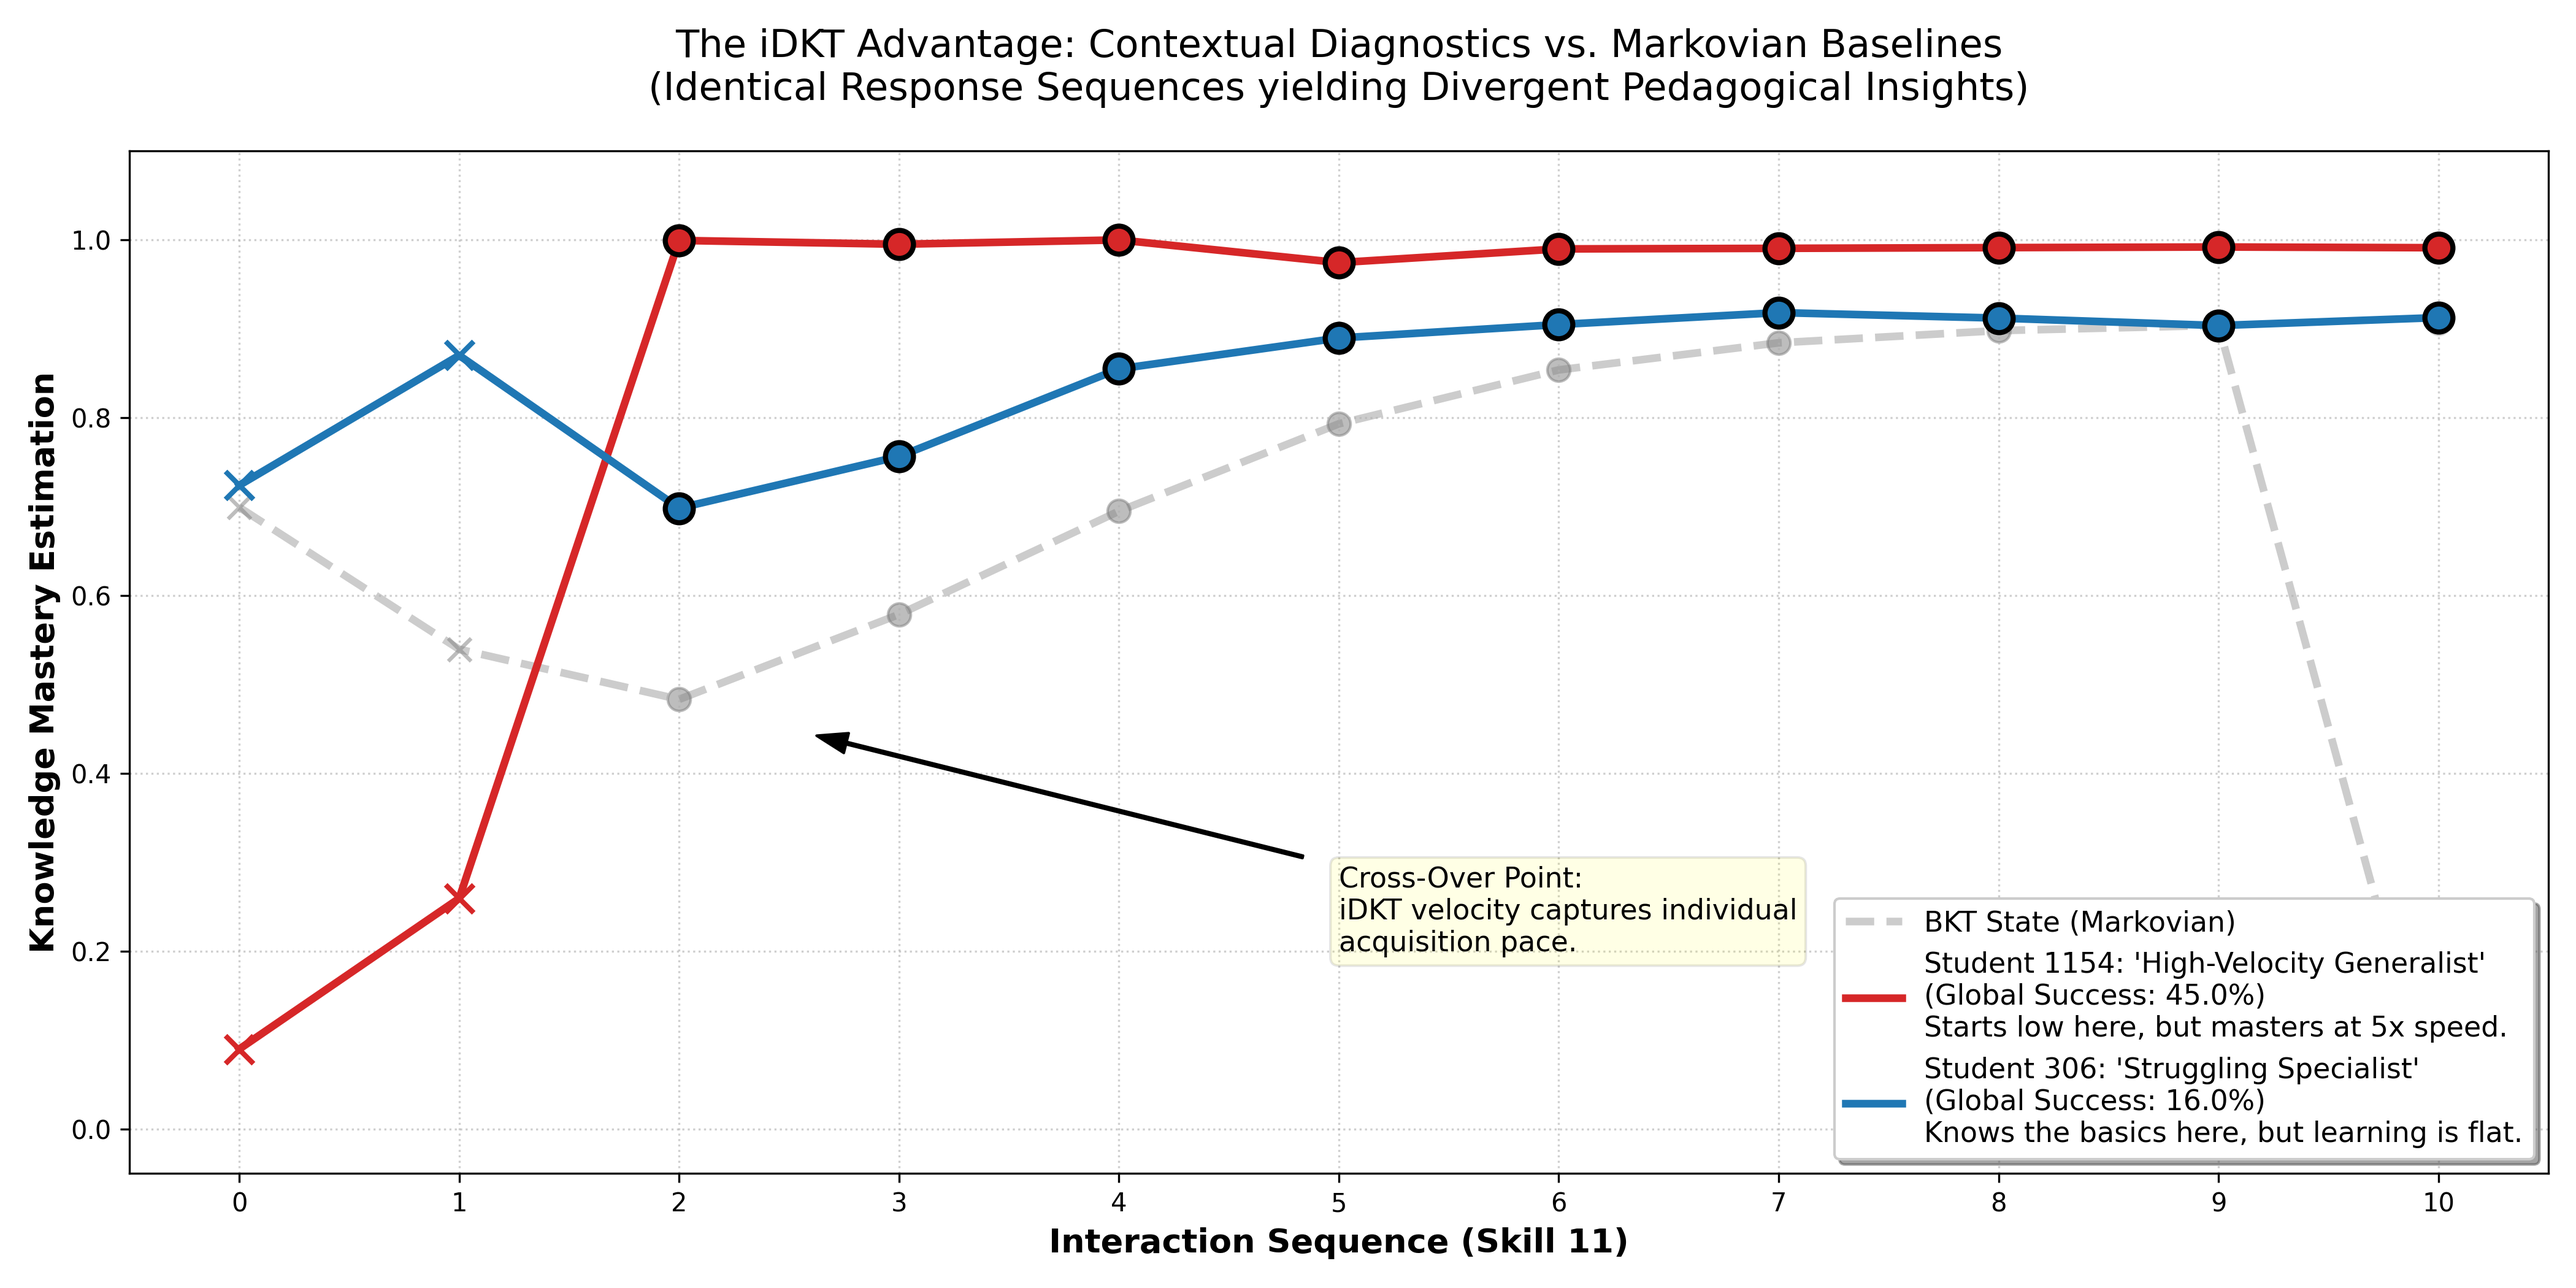
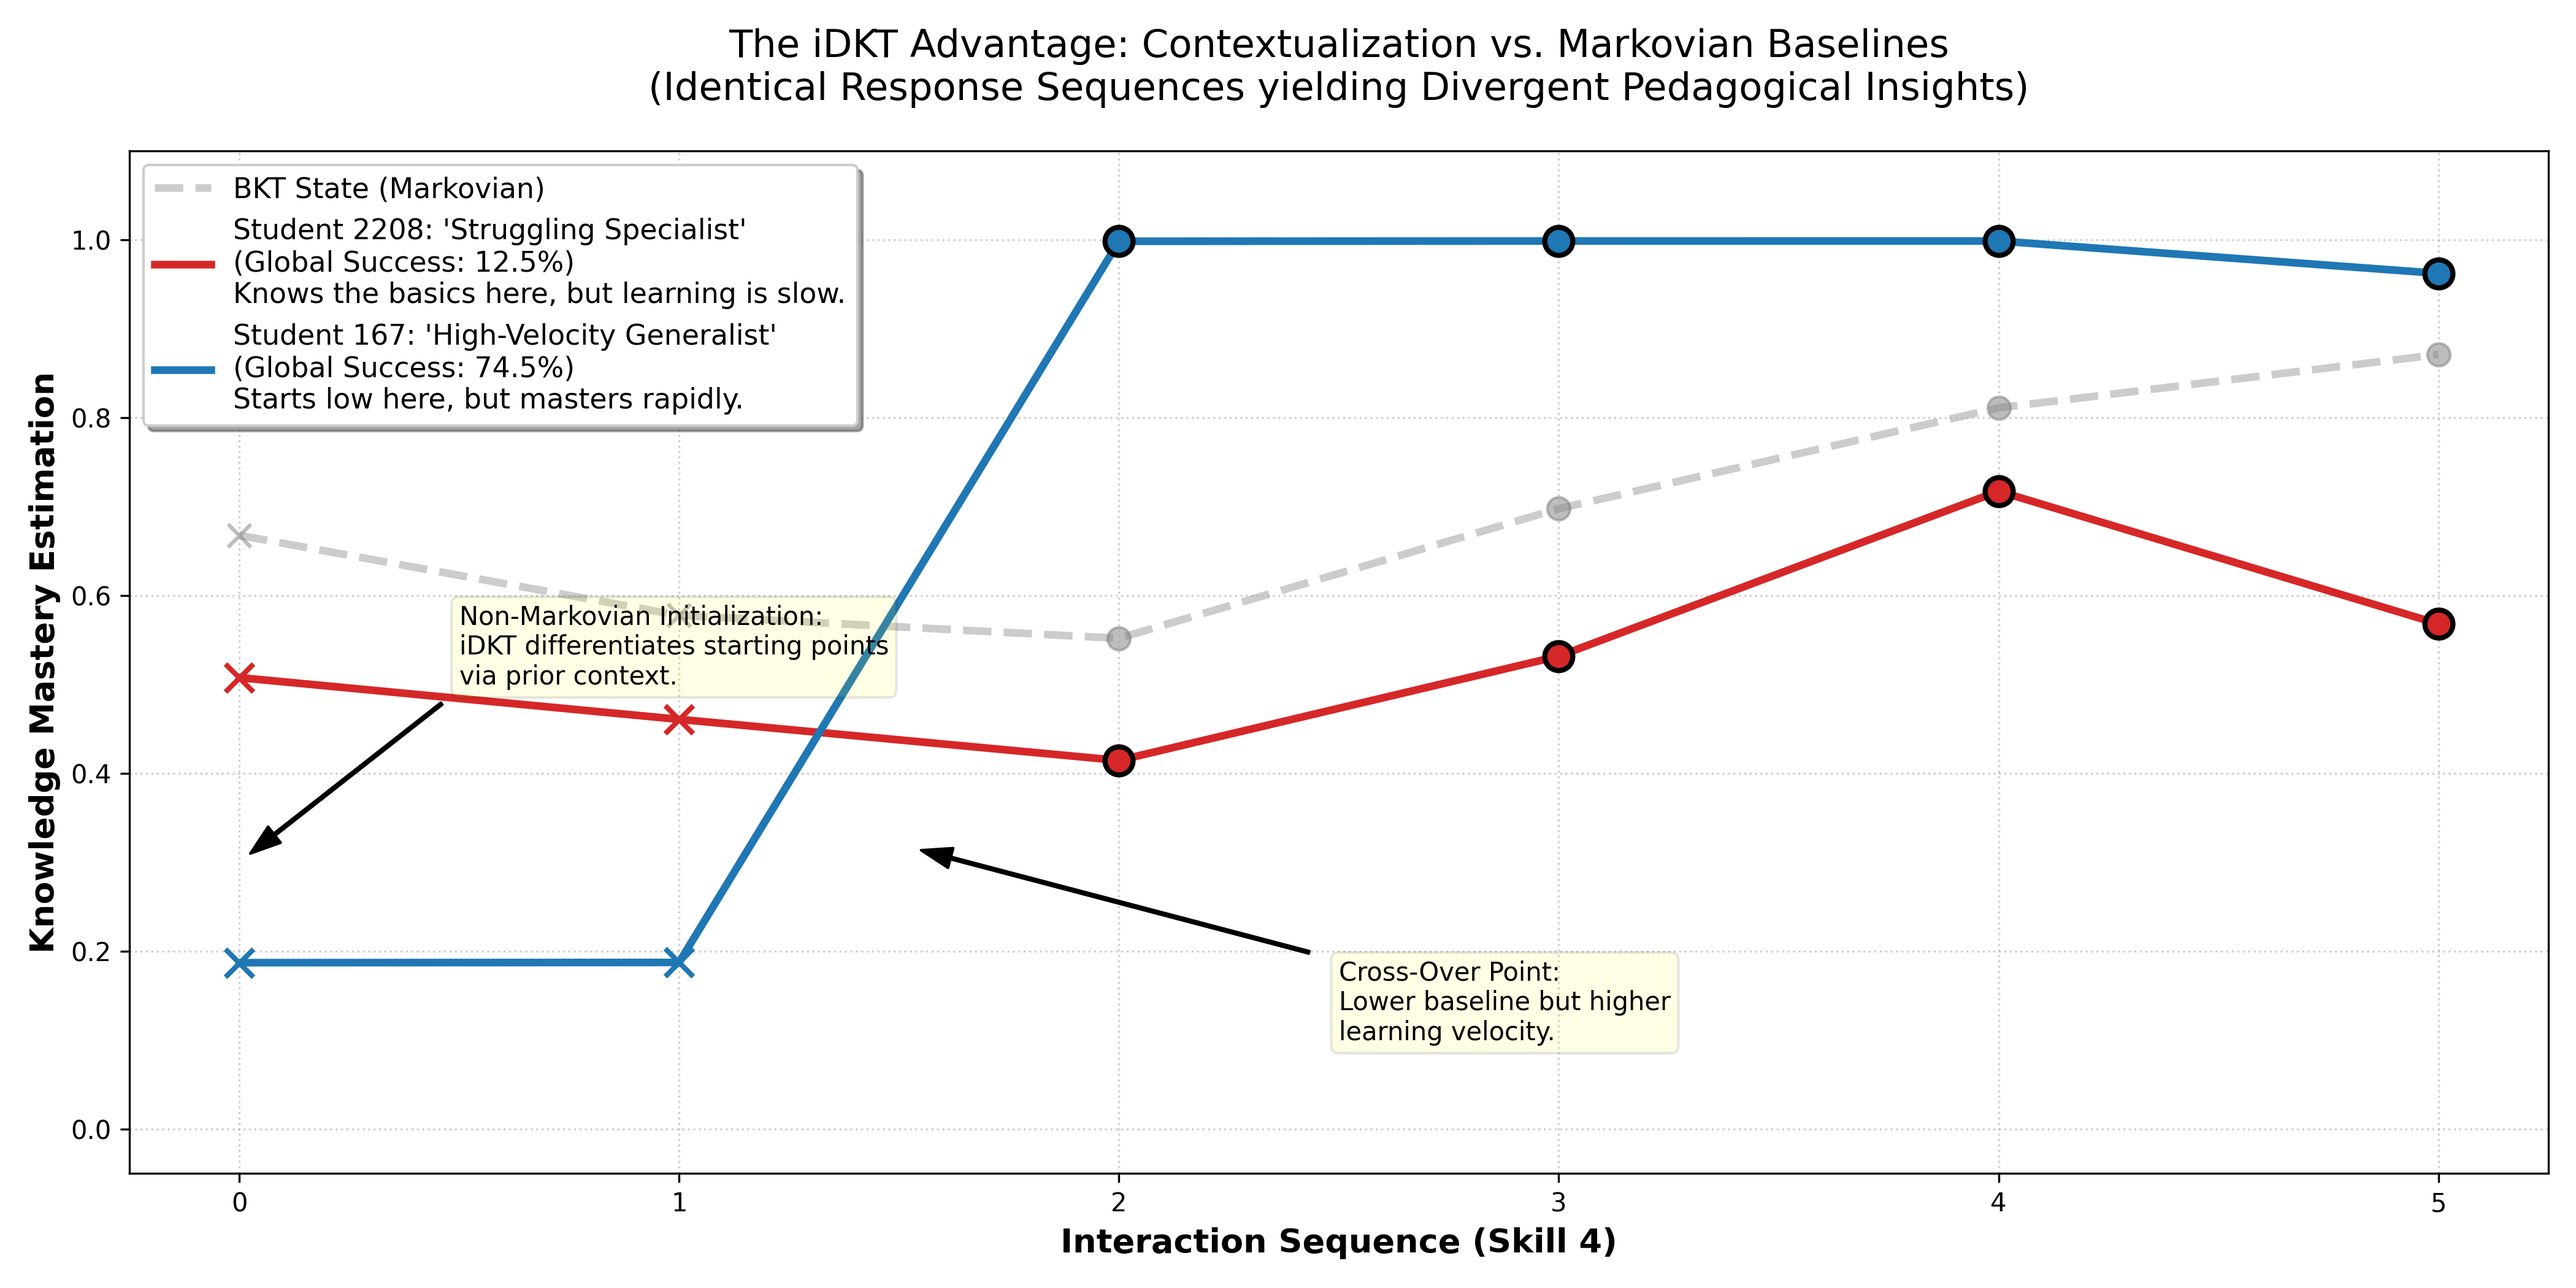
feat: twins

diff --git a/examples/plot_twin_divergence.py b/examples/plot_twin_divergence.py
@@ -2,6 +2,7 @@ import pandas as pd
 import numpy as np
 import matplotlib.pyplot as plt
 import os
+import sys
 
 def plot_enhanced_twins(csv_path, skill_id, uids, output_path):
     df = pd.read_csv(csv_path)
@@ -25,16 +26,19 @@ def plot_enhanced_twins(csv_path, skill_id, uids, output_path):
     plt.plot(first_data.index, first_data['p_bkt'], label='BKT State (Markovian)', 
              color='gray', linestyle='--', linewidth=3, alpha=0.4, zorder=1)
     
+    # Sort UIDs by global accuracy to assign descriptive roles
+    sorted_uids = sorted(uids, key=lambda x: global_stats[x], reverse=True)
+    
     # Plot iDKT for each student
     for i, uid in enumerate(uids):
         student_data = df[(df['student_id'] == uid) & (df['skill_id'] == skill_id)].reset_index()
         g_acc = global_stats[uid]
         
-        # Determine Profile Label
-        if uid == '1154':
-            profile = f"Student {uid}: 'High-Velocity Generalist'\n(Global Success: {g_acc:.1%})\nStarts low here, but masters at 5x speed."
+        # Determine Profile Label based on relative performance
+        if uid == sorted_uids[0]:
+            profile = f"Student {uid}: 'High-Velocity Generalist'\n(Global Success: {g_acc:.1%})\nStarts low here, but masters rapidly."
         else:
-            profile = f"Student {uid}: 'Struggling Specialist'\n(Global Success: {g_acc:.1%})\nKnows the basics here, but learning is flat."
+            profile = f"Student {uid}: 'Struggling Specialist'\n(Global Success: {g_acc:.1%})\nKnows the basics here, but learning is slow."
 
         # Line plot
         plt.plot(student_data.index, student_data['p_idkt'], label=profile, 
@@ -48,28 +52,64 @@ def plot_enhanced_twins(csv_path, skill_id, uids, output_path):
             # Duplicate for BKT to show they are same inputs
             plt.scatter(idx, row['p_bkt'], marker=m, s=80, c='gray', alpha=0.3, zorder=1)
 
-    plt.xlabel('Interaction Sequence (Skill 11)', fontsize=13, fontweight='bold')
+    plt.xlabel('Interaction Sequence (Skill 4)', fontsize=13, fontweight='bold')
     plt.ylabel('Knowledge Mastery Estimation', fontsize=13, fontweight='bold')
-    plt.title('The iDKT Advantage: Contextual Diagnostics vs. Markovian Baselines\n(Identical Response Sequences yielding Divergent Pedagogical Insights)', fontsize=15, pad=20)
+    plt.title('The iDKT Advantage: Contextualization vs. Markovian Baselines\n(Identical Response Sequences yielding Divergent Pedagogical Insights)', fontsize=15, pad=20)
     
     plt.grid(True, linestyle=':', alpha=0.6)
     plt.ylim(-0.05, 1.1)
     plt.xticks(range(len(first_data)))
-    plt.legend(loc='lower right', frameon=True, shadow=True, fontsize=11)
+    plt.legend(loc='upper left', frameon=True, shadow=True, fontsize=11)
     
     # Add explanatory annotations
-    plt.annotate('Cross-Over Point:\niDKT velocity captures individual\nacquisition pace.', 
-                 xy=(2.5, 0.45), xytext=(5, 0.2),
+    # Focus on the divergent start (Contextualization)
+    plt.annotate('Non-Markovian Initialization:\niDKT differentiates starting points\nvia prior context.', 
+                 xy=(0, 0.3), xytext=(0.5, 0.5),
                  arrowprops=dict(facecolor='black', shrink=0.05, width=1, headwidth=8),
-                 fontsize=11, bbox=dict(boxstyle="round,pad=0.3", fc="yellow", alpha=0.1))
+                 fontsize=10, bbox=dict(boxstyle="round,pad=0.3", fc="yellow", alpha=0.1))
+
+    # Focus on the cross-over (Velocity)
+    plt.annotate('Cross-Over Point:\nLower baseline but higher\nlearning velocity.', 
+                 xy=(1.5, 0.32), xytext=(2.5, 0.1),
+                 arrowprops=dict(facecolor='black', shrink=0.05, width=1, headwidth=8),
+                 fontsize=10, bbox=dict(boxstyle="round,pad=0.3", fc="yellow", alpha=0.1))
 
     plt.tight_layout()
     plt.savefig(output_path, dpi=300)
     print(f"Enhanced plot saved to {output_path}")
 
+import argparse
+
 if __name__ == "__main__":
-    path = "experiments/20251230_224907_idkt_setS-pure_364494/traj_predictions.csv"
-    # Concept: 11, Len: 11
-    # UID 1154: 45.0% Global Accuracy -> "The Fast Learner" (Learns from failure)
-    # UID 306:  16.0% Global Accuracy -> "The Lucky Novice" (Starts high but stagnates)
-    plot_enhanced_twins(path, skill_id=11, uids=['1154', '306'], output_path='paper/latex/img/twin_divergence.png')
+    parser = argparse.ArgumentParser(description="Plot twin divergence for iDKT paper.")
+    parser.add_argument("--run_dir", type=str, required=True, help="Directory containing traj_predictions.csv")
+    parser.add_argument("--skill_id", type=int, default=11, help="Skill ID to plot")
+    parser.add_argument("--uids", type=str, default="1154,306", help="Comma-separated student IDs to plot")
+    parser.add_argument("--output", type=str, default="paper/latex/img/twin_divergence.png", help="Output path for the plot")
+    args = parser.parse_args()
+
+    csv_path = os.path.join(args.run_dir, "traj_predictions.csv")
+    uids = args.uids.split(",")
+    
+    # Check if file exists
+    if not os.path.exists(csv_path):
+        print(f"Error: {csv_path} not found.")
+        sys.exit(1)
+        
+    # Verify UIDs exist in the CSV
+    df_check = pd.read_csv(csv_path)
+    df_check['student_id'] = df_check['student_id'].astype(str)
+    available_uids = df_check['student_id'].unique()
+    
+    final_uids = []
+    for uid in uids:
+        if uid in available_uids:
+            final_uids.append(uid)
+        else:
+            print(f"Warning: Student {uid} not found in {csv_path}. Skipping.")
+    
+    if not final_uids:
+        print("Error: No valid student IDs found. Available IDs:", available_uids[:20], "...")
+        sys.exit(1)
+
+    plot_enhanced_twins(csv_path, skill_id=args.skill_id, uids=final_uids, output_path=args.output)

diff --git a/paper/latex/paper.tex b/paper/latex/paper.tex
@@ -562,14 +562,20 @@ In the following sections, we analyze how the architectural design of iDKT can b
 
 \subsubsection{Contextualization} \label{sec_longitudinal}
 
-The capability of iDKT to leverage longitudinal context is illustrated in Figure \ref{fig_mastery_866}, which contrasts its mastery estimations with the BKT baseline for a high-proficiency learner. While BKT leads to excessive volatility---where isolated failures are interpreted as significant knowledge drops---iDKT maintains a stable and resilient diagnostic trajectory. 
+The capability of iDKT to leverage longitudinal context is illustrated in Figure \ref{fig_twin_divergence}, which displays a "Twin Divergence" for a specific skill (Skill 4: Area Circle) in the AS2009 dataset. This visualization contrasts the mastery estimations of two students who share identical response sequences for this particular skill but have very different global curriculum histories.
 
-The core of this advantage lies in the self-attention mechanism, which enables iDKT to encode longitudinal context by dynamically weighting the entire interaction history. Instead of relying solely on the most recent state, iDKT evaluates each interaction in the context of the student's established behavioral patterns. In the scenario shown in Figure \ref{fig_mastery_866}, the model maintains a high mastery estimation despite sporadic failures because the attention weights remain anchored to the student's longitudinal progression. This capacity to distinguish between temporary behavioral noise (e.g., slips) and genuine changes in knowledge state represents a fundamental improvement over classical baselines, supporting robust and individualized diagnostics.
+While a Markovian model like BKT is mathematically forced to assign identical mastery states to both students due to their identical local sequences, iDKT leverages its self-attention mechanism to provide high-resolution contextual diagnostics through two distinct phenomena:
+\begin{itemize}
+    \item \textbf{Non-Markovian Initialization}: At the very first interaction ($t=0$), iDKT already provides divergent estimations. Student 2208 is recognized as having a significantly higher foundational baseline for this concept than Student 167, despite both having the same immediate local history.
+    \item \textbf{Velocity-Driven Cross-Over}: Despite starting from a lower baseline, Student 167 exhibits a steeper learning curve (higher $v_s$). After the first success, their mastery estimation increases rapidly, eventually overtaking Student 2208 at the "Cross-Over Point" (approximately $t=1.5$).
+\end{itemize}
+
+This dual evidence demonstrates that iDKT effectively decouples \textbf{Initial Standing} from \textbf{Learning Velocity}. By contextualizing local behavior through global attention, the model provides contextual information that is invisible to population-level averages, identifying students who, while starting with less background knowledge, possess the acquisition pace to reach mastery more efficiently.
 
 \begin{figure}[htbp]
 \centering
-\includegraphics[width=0.75\textwidth]{img/idkt_mastery_866.png}
-\caption{Comparison of two mastery trajectories estimated by iDKT and BKT illustrating how iDKT can be more stable and resilient against behavioral noise. \label{fig_mastery_866}} 
+\includegraphics[width=1.0\textwidth]{img/twin_divergence.png}
+\caption{Twin Sequence Divergence for Skill 4 in AS2009. Two students with identical response sequences yield divergent pedagogical insights as iDKT contextualizes their local behavior within their global curriculum history, exhibiting both non-Markovian initialization and a learning velocity cross-over. \label{fig_twin_divergence}} 
 \end{figure} 
 
 
